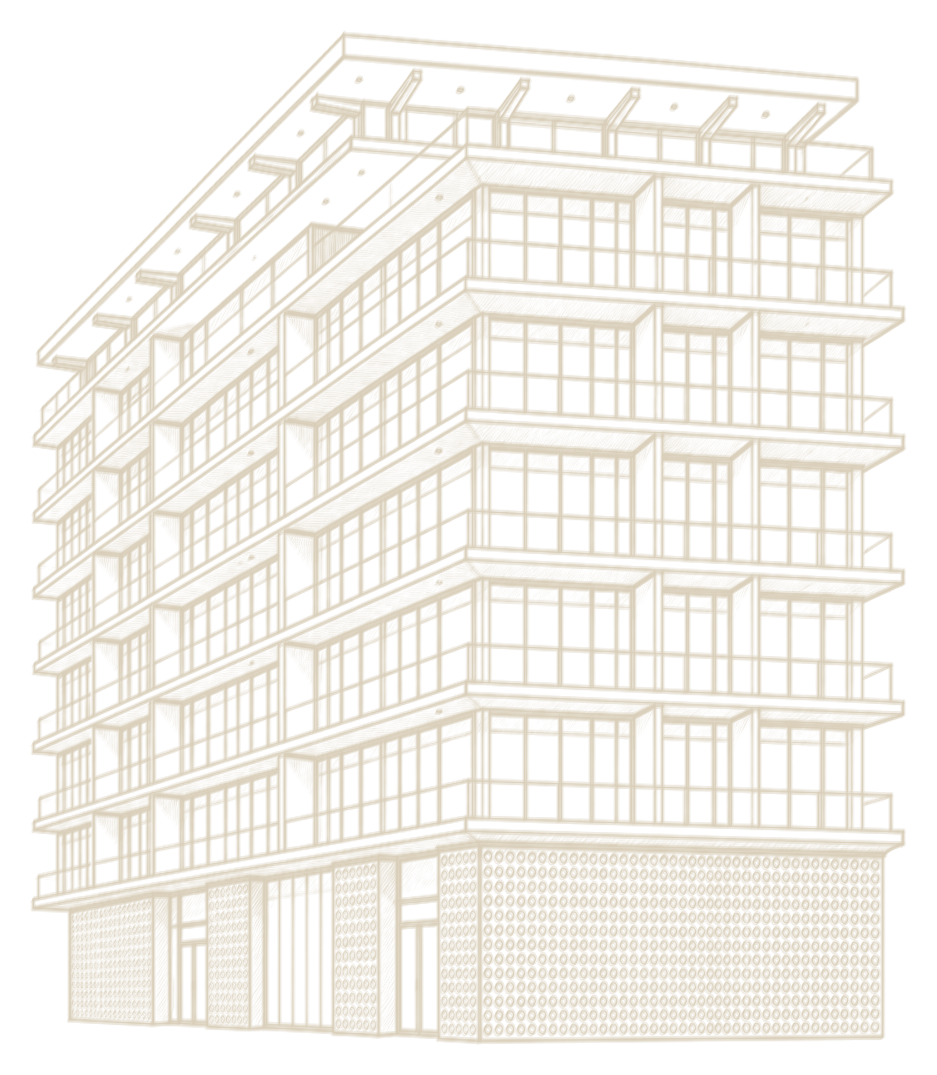
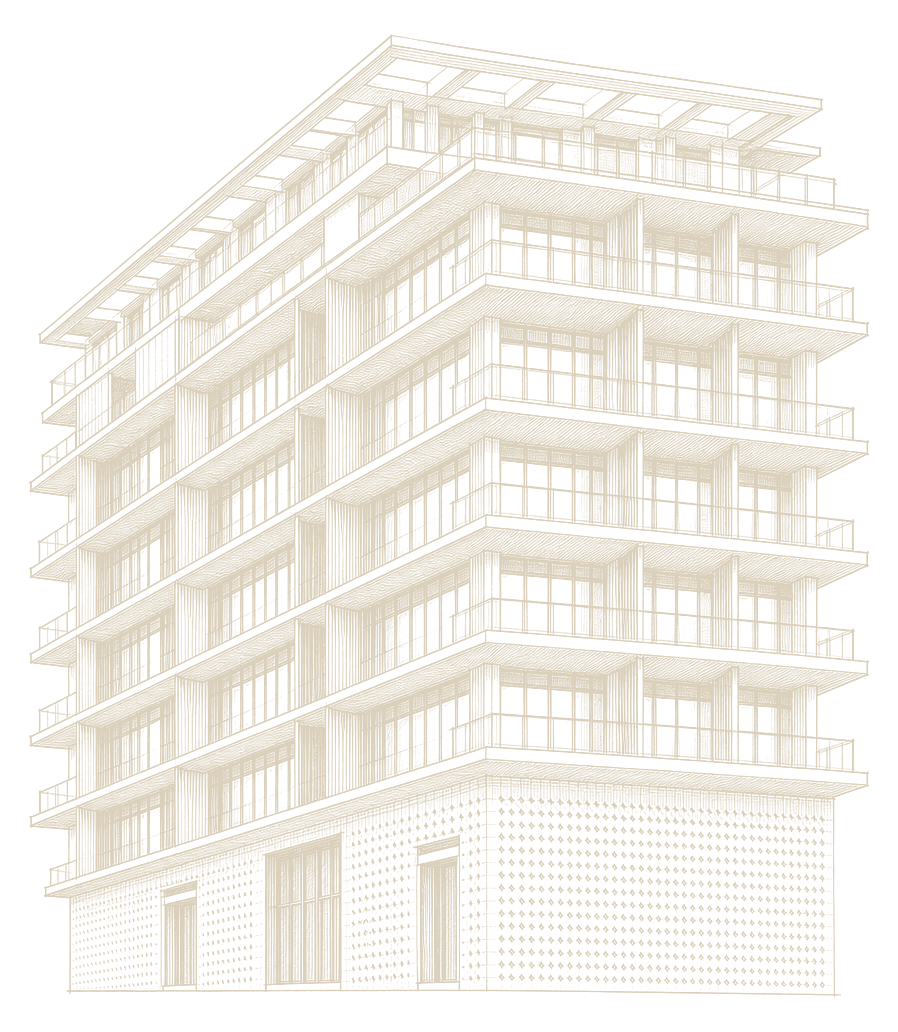
style(landing): match architectural sketch reference

diff --git a/public/cast-build.css b/public/cast-build.css
@@ -3,8 +3,8 @@
 *{box-sizing:border-box;margin:0;padding:0}html{-webkit-font-smoothing:antialiased;-moz-osx-font-smoothing:grayscale;text-rendering:optimizeLegibility;scroll-behavior:smooth}body{font-family:var(--font-body);background:var(--ivory);color:var(--graphite);line-height:1.6}a{color:inherit}img{max-width:100%;display:block}.shell{min-height:100vh}.topbar{position:fixed;top:0;left:0;right:0;z-index:100;display:grid;grid-template-columns:1fr auto 1fr;align-items:center;gap:28px;padding:22px 48px;background:rgba(245,243,239,.94);backdrop-filter:blur(14px);border-bottom:1px solid var(--hairline)}.brand-lockup{text-align:center;text-decoration:none;color:var(--graphite);display:flex;flex-direction:column;align-items:center;gap:7px}.brand-logo{height:44px;width:auto;object-fit:contain;mix-blend-mode:multiply}.brand{display:none}.subbrand{display:block;font-size:7px;letter-spacing:3px;text-transform:uppercase;color:var(--muted);margin-top:2px}.nav{display:flex;align-items:center;gap:28px}.nav-left{justify-content:flex-start}.nav-right{justify-content:flex-end}.nav a{font-family:var(--font-caption);font-size:10px;font-weight:600;letter-spacing:.18em;text-transform:uppercase;text-decoration:none;color:var(--graphite);transition:color .2s ease,opacity .2s ease}.nav a:hover{color:var(--bison)}.nav-action{border:1px solid var(--graphite);padding:10px 16px}.nav-action:hover{background:var(--dark);color:var(--ivory)!important}.button{display:inline-flex;align-items:center;justify-content:center;gap:10px;padding:15px 28px;border:1px solid rgba(255,255,255,.38);background:rgba(245,243,239,.04);color:var(--white);font-family:var(--font-caption);font-size:10px;font-weight:600;letter-spacing:.18em;text-transform:uppercase;text-decoration:none;transition:background .2s ease,border-color .2s ease,color .2s ease}.button:hover{background:rgba(255,255,255,.12);border-color:rgba(255,255,255,.7)}.button.secondary{background:transparent}.main .lead{color:var(--muted);max-width:760px}.main .button{color:var(--dark);border-color:var(--graphite);background:transparent}.main .button:hover{background:var(--dark);color:var(--ivory)}.main .button.secondary{border-color:var(--sand-light);color:var(--graphite)}.main .hero{min-height:auto;background:var(--white);color:var(--dark);overflow:visible;border:1px solid var(--sand-light)}.main .hero:before,.main .hero-mark{display:none}.main .hero .eyebrow{color:var(--bison)}.main .hero h1{color:var(--dark);font-size:clamp(2.8rem,5vw,5rem);line-height:.98}.main .hero .lead{color:var(--muted)}.main .hero .button{color:var(--dark);border-color:var(--graphite)}.main .hero .button:hover{color:var(--ivory);background:var(--dark)}.hero{min-height:100vh;display:grid;grid-template-columns:minmax(0,1fr) 360px;align-items:end;gap:46px;position:relative;overflow:hidden;background:var(--dark);padding:150px 56px 70px}.hero:before{content:"";position:absolute;inset:0;background:linear-gradient(180deg,rgba(20,20,20,.42),rgba(20,20,20,.18) 45%,rgba(20,20,20,.78)),radial-gradient(circle at 18% 24%,rgba(191,184,162,.2),transparent 32%);z-index:0}.hero-mark{position:absolute;inset:90px 0 auto 0;height:70vh;background:url('/assets/brand/cast-monogram-outline.jpg') center center/min(620px,68vw) auto no-repeat;opacity:.15;mix-blend-mode:screen;z-index:0}.hero-content{position:relative;z-index:1;color:var(--white);max-width:980px}.eyebrow,.section-kicker{font-family:var(--font-caption);font-size:10px;font-weight:600;letter-spacing:.22em;text-transform:uppercase;color:rgba(255,255,255,.66);margin-bottom:22px}.hero h1{font-family:var(--font-heading);font-size:clamp(4.4rem,9vw,9.4rem);font-weight:300;letter-spacing:.035em;line-height:.84;color:var(--white);max-width:1040px;margin:0 0 26px}.lead{font-size:1.05rem;line-height:1.75;color:rgba(255,255,255,.76);max-width:710px;margin:0 0 34px}.hero-actions{display:flex;gap:12px;flex-wrap:wrap}.sequence-card{position:relative;z-index:1;background:rgba(245,243,239,.94);border:1px solid rgba(212,201,178,.8);padding:28px;box-shadow:var(--shadow-soft);align-self:end}.sequence-card h2{font-family:var(--font-heading);font-size:2rem;font-weight:400;letter-spacing:.04em;color:var(--dark);margin:14px 0 18px}.sequence-card ol{list-style:none;display:grid;gap:14px}.sequence-card li{display:grid;grid-template-columns:36px 1fr;gap:12px;color:var(--graphite);font-size:.88rem}.sequence-card li span{font-family:var(--font-caption);font-size:.65rem;font-weight:700;letter-spacing:.16em;color:var(--bison)}.status{display:inline-block;padding:5px 11px;background:rgba(90,122,90,.15);color:var(--success);font-family:var(--font-caption);font-size:.6rem;font-weight:700;text-transform:uppercase;letter-spacing:.14em}.platform-section{padding:86px 56px 72px;max-width:1320px;margin:0 auto}.section-heading-row{display:grid;grid-template-columns:minmax(0,1.1fr) minmax(260px,.65fr);gap:42px;align-items:end;margin-bottom:28px}.section-kicker{color:var(--bison);margin-bottom:14px}.section-title{font-family:var(--font-heading);font-size:clamp(2.6rem,5vw,5.2rem);font-weight:300;letter-spacing:.03em;line-height:.95;color:var(--dark)}.section-heading-row p{color:var(--muted);font-size:.98rem;line-height:1.75}.pillar-grid{display:grid;grid-template-columns:repeat(4,1fr);gap:18px}.pillar-card{position:relative;background:var(--white);border:1px solid var(--sand-light);padding:30px 26px 28px;min-height:270px;transition:transform .2s ease,box-shadow .2s ease}.pillar-card:hover{transform:translateY(-2px);box-shadow:var(--shadow-soft)}.pillar-card:after{content:"";position:absolute;left:26px;right:26px;bottom:22px;height:1px;background:var(--hairline)}.pillar-card h3{font-family:var(--font-heading);font-size:1.85rem;font-weight:400;letter-spacing:.03em;color:var(--dark);margin:14px 0 12px}.pillar-card p{color:var(--muted);font-size:.9rem;line-height:1.65}.metric{font-family:var(--font-caption);font-size:.72rem;font-weight:700;letter-spacing:.18em;color:var(--bison);text-transform:uppercase}.workflow-band{margin:0 56px 70px;padding:30px 32px;display:grid;grid-template-columns:minmax(260px,.8fr) minmax(0,1.2fr);gap:34px;align-items:center;background:var(--linen);border:1px solid var(--sand-light)}.workflow-band h2{font-family:var(--font-heading);font-size:2.35rem;font-weight:300;line-height:1;color:var(--dark)}.workflow-strip{display:grid;grid-template-columns:repeat(4,1fr);gap:10px}.workflow-strip span{display:flex;align-items:center;justify-content:center;min-height:72px;background:var(--white);border:1px solid var(--sand-light);font-family:var(--font-caption);font-size:.68rem;font-weight:700;letter-spacing:.16em;text-transform:uppercase;color:var(--graphite);text-align:center}.brand-credit{display:flex;align-items:center;gap:10px;margin-top:22px;font-size:9px;letter-spacing:2px;text-transform:uppercase;color:var(--muted)}.brand-credit img{height:28px;mix-blend-mode:multiply}.grid{max-width:1180px;margin:0 auto;padding:78px 48px;display:grid;grid-template-columns:repeat(3,1fr);gap:16px}.card{background:var(--white);border:1px solid var(--sand-light);padding:28px;min-height:210px;transition:box-shadow .2s ease}.card:hover{box-shadow:var(--shadow-soft)}.card h3{font-family:var(--font-heading);font-size:1.7rem;font-weight:400;letter-spacing:.04em;color:var(--dark);margin-bottom:10px}.card p{color:var(--muted);font-size:.9rem}.layout{display:grid;grid-template-columns:286px minmax(0,1fr);min-height:100vh}.sidebar{background:var(--dark);color:var(--ivory);padding:30px 0;position:sticky;top:0;height:100vh;overflow:auto;border-right:1px solid rgba(207,199,177,.15)}.sidebar:before{content:"";display:block;height:240px;margin:0 26px 28px;background:url('/assets/brand/cast-build-logo-transparent.png') left center/contain no-repeat;opacity:.9}.sidebar a{display:flex;align-items:center;gap:12px;color:var(--sand-light);text-decoration:none;padding:12px 26px;border-left:2px solid transparent;font-family:var(--font-caption);font-size:.68rem;font-weight:600;text-transform:uppercase;letter-spacing:.15em;transition:background .2s ease,color .2s ease,border-color .2s ease}.sidebar a:hover{color:var(--ivory);background:rgba(245,243,239,.06);border-left-color:var(--sand-light)}.sidebar a:before{content:"";width:18px;height:18px;border:1px solid rgba(212,201,178,.48);background:rgba(245,243,239,.04)}.main{padding:120px 40px 56px;max-width:1280px;width:100%;margin:0 auto}.main>.section-title:first-child{font-size:clamp(3rem,6vw,6rem);margin-bottom:16px}.table{width:100%;border-collapse:collapse;background:var(--white);border:1px solid var(--sand-light)}.table th{background:var(--ivory-alt);padding:14px 16px;text-align:left;font-family:var(--font-caption);font-size:.65rem;font-weight:700;text-transform:uppercase;letter-spacing:.15em;color:var(--sand);border-bottom:1px solid var(--sand-light)}.table td{padding:14px 16px;border-bottom:1px solid rgba(212,201,178,.5);font-size:.85rem}.warning,.danger{border:1px solid var(--sand-light);border-left:4px solid var(--warning);background:rgba(212,201,178,.18);padding:16px;margin:18px 0}.danger{border-left-color:var(--danger)}code{background:var(--ivory-alt);padding:2px 5px}:focus-visible{outline:2px solid var(--bison);outline-offset:3px}@media(prefers-reduced-motion:reduce){*,*::before,*::after{transition:none!important;scroll-behavior:auto!important}}@media(max-width:1050px){.topbar{position:relative;grid-template-columns:1fr;padding:18px 22px}.brand-lockup{order:-1;align-items:flex-start;text-align:left}.nav,.nav-left,.nav-right{justify-content:flex-start;flex-wrap:wrap;gap:16px}.hero{min-height:auto;grid-template-columns:1fr;padding:70px 22px 36px}.hero h1{font-size:clamp(3.5rem,15vw,5.8rem)}.sequence-card{margin-top:24px}.platform-section{padding:54px 22px}.section-heading-row,.pillar-grid,.workflow-band,.workflow-strip,.grid,.layout{grid-template-columns:1fr}.workflow-band{margin:0 22px 48px}.sidebar{position:relative;height:auto}.main{padding:28px 22px}.grid{padding:42px 22px}}
 
 /* CAST Build access landing — matched to Broderick portal structure */
-.cast-access-section{position:relative;min-height:100vh;display:flex;align-items:center;justify-content:center;overflow:hidden;background:var(--dark);padding:100px 56px}.cast-access-bg{position:absolute;inset:0;background:linear-gradient(135deg,#050505 0%,#171414 34%,#24171b 58%,#0d0f14 78%,#050505 100%);z-index:0}.cast-access-overlay{position:absolute;inset:0;background:rgba(5,5,5,.68);z-index:0}.cast-access-section:before{content:"";position:absolute;inset:0;background:radial-gradient(circle at 18% 20%,rgba(191,184,162,.14),transparent 30%),linear-gradient(135deg,rgba(69,40,44,.18) 0%,transparent 62%);pointer-events:none;z-index:1}.cast-landing-building-sketch{position:absolute;z-index:1;top:50%;right:clamp(-420px,-25vw,-300px);width:min(720px,58vw);height:auto;max-width:none;transform:translateY(-50%);opacity:.46;pointer-events:none;user-select:none;filter:drop-shadow(0 26px 70px rgba(216,205,183,.08))}.cast-family-top{position:fixed;top:28px;left:42px;z-index:5;display:block;text-decoration:none}.cast-family-top img{width:95px;height:auto;object-fit:contain;opacity:.98;filter:drop-shadow(0 10px 24px rgba(0,0,0,.35))}.automation-top{position:fixed;top:28px;right:42px;z-index:5;display:block;text-decoration:none}.automation-top img{width:190px;height:auto;object-fit:contain;opacity:.9}.cast-access-content{position:relative;z-index:2;width:min(1180px,100%);display:grid;grid-template-columns:minmax(0,1fr) minmax(280px,380px);align-items:center;gap:clamp(42px,7vw,96px)}.cast-access-logo{margin:0;line-height:1;width:min(380px,100%);justify-self:start;transform:none}.cast-access-logo img{display:block;width:100%;height:auto;object-fit:contain;filter:drop-shadow(0 18px 44px rgba(0,0,0,.34));opacity:.98}.cast-access-grid{display:grid;grid-template-columns:1fr;gap:18px;width:100%;justify-self:end}.cast-access-card{min-height:156px;text-align:left;padding:32px 30px;background:rgba(255,255,255,.03);border:1px solid rgba(191,184,162,.16);transition:transform .35s cubic-bezier(.4,0,.2,1),background .35s cubic-bezier(.4,0,.2,1),border-color .35s cubic-bezier(.4,0,.2,1),box-shadow .35s cubic-bezier(.4,0,.2,1);cursor:pointer;text-decoration:none;display:flex;align-items:center;justify-content:space-between;gap:22px;color:inherit}.cast-access-card:hover{transform:translateX(-4px);background:rgba(255,255,255,.06);border-color:var(--sand);box-shadow:0 20px 60px rgba(0,0,0,.3)}.cast-access-card h2{font-family:var(--font-heading);font-size:clamp(1.15rem,1.55vw,1.55rem);font-weight:400;letter-spacing:.22em;text-transform:uppercase;color:var(--white);line-height:1.15}.cast-access-card .portal-arrow{width:20px;height:20px;stroke:var(--sand);stroke-width:1.5;opacity:.72;transform:translateX(-4px);transition:opacity .25s ease,transform .25s ease;flex:0 0 auto}.cast-access-card:hover .portal-arrow{opacity:1;transform:translateX(0)}.cast-access-card--project span{display:flex;align-items:center;align-self:stretch}.cast-access-card--project h2{margin:0}
-@media(max-width:900px){.cast-access-section{padding:92px 22px 72px;align-items:stretch}.cast-landing-building-sketch{right:-455px;width:520px;opacity:.14;transform:translateY(-50%)}.cast-family-top{position:absolute;top:22px;left:22px}.cast-family-top img{width:33px;height:auto}.automation-top{position:absolute;top:22px;right:22px}.automation-top img{width:66px;height:auto}.cast-access-content{grid-template-columns:1fr;gap:42px;width:100%;align-self:center}.cast-access-logo{margin:30px auto 0;width:min(320px,86vw);justify-self:center;transform:none}.cast-access-grid{max-width:520px;margin:0 auto;gap:16px}.cast-access-card{min-height:132px;padding:28px 24px;text-align:left}}
+.cast-access-section{position:relative;min-height:100vh;display:flex;align-items:center;justify-content:center;overflow:hidden;background:var(--dark);padding:100px 56px}.cast-access-bg{position:absolute;inset:0;background:linear-gradient(135deg,#050505 0%,#171414 34%,#24171b 58%,#0d0f14 78%,#050505 100%);z-index:0}.cast-access-overlay{position:absolute;inset:0;background:rgba(5,5,5,.68);z-index:0}.cast-access-section:before{content:"";position:absolute;inset:0;background:radial-gradient(circle at 18% 20%,rgba(191,184,162,.14),transparent 30%),linear-gradient(135deg,rgba(69,40,44,.18) 0%,transparent 62%);pointer-events:none;z-index:1}.cast-landing-building-sketch{position:absolute;z-index:1;top:50%;right:clamp(-580px,-36vw,-470px);width:min(620px,49vw);height:auto;max-width:none;transform:translateY(-50%);opacity:.34;pointer-events:none;user-select:none;filter:drop-shadow(0 26px 70px rgba(216,205,183,.08))}.cast-family-top{position:fixed;top:28px;left:42px;z-index:5;display:block;text-decoration:none}.cast-family-top img{width:95px;height:auto;object-fit:contain;opacity:.98;filter:drop-shadow(0 10px 24px rgba(0,0,0,.35))}.automation-top{position:fixed;top:28px;right:42px;z-index:5;display:block;text-decoration:none}.automation-top img{width:190px;height:auto;object-fit:contain;opacity:.9}.cast-access-content{position:relative;z-index:2;width:min(1180px,100%);display:grid;grid-template-columns:minmax(0,1fr) minmax(280px,380px);align-items:center;gap:clamp(42px,7vw,96px)}.cast-access-logo{margin:0;line-height:1;width:min(380px,100%);justify-self:start;transform:none}.cast-access-logo img{display:block;width:100%;height:auto;object-fit:contain;filter:drop-shadow(0 18px 44px rgba(0,0,0,.34));opacity:.98}.cast-access-grid{display:grid;grid-template-columns:1fr;gap:18px;width:100%;justify-self:end}.cast-access-card{min-height:156px;text-align:left;padding:32px 30px;background:rgba(255,255,255,.03);border:1px solid rgba(191,184,162,.16);transition:transform .35s cubic-bezier(.4,0,.2,1),background .35s cubic-bezier(.4,0,.2,1),border-color .35s cubic-bezier(.4,0,.2,1),box-shadow .35s cubic-bezier(.4,0,.2,1);cursor:pointer;text-decoration:none;display:flex;align-items:center;justify-content:space-between;gap:22px;color:inherit}.cast-access-card:hover{transform:translateX(-4px);background:rgba(255,255,255,.06);border-color:var(--sand);box-shadow:0 20px 60px rgba(0,0,0,.3)}.cast-access-card h2{font-family:var(--font-heading);font-size:clamp(1.15rem,1.55vw,1.55rem);font-weight:400;letter-spacing:.22em;text-transform:uppercase;color:var(--white);line-height:1.15}.cast-access-card .portal-arrow{width:20px;height:20px;stroke:var(--sand);stroke-width:1.5;opacity:.72;transform:translateX(-4px);transition:opacity .25s ease,transform .25s ease;flex:0 0 auto}.cast-access-card:hover .portal-arrow{opacity:1;transform:translateX(0)}.cast-access-card--project span{display:flex;align-items:center;align-self:stretch}.cast-access-card--project h2{margin:0}
+@media(max-width:900px){.cast-access-section{padding:92px 22px 72px;align-items:stretch}.cast-landing-building-sketch{right:-500px;width:520px;opacity:.10;transform:translateY(-50%)}.cast-family-top{position:absolute;top:22px;left:22px}.cast-family-top img{width:33px;height:auto}.automation-top{position:absolute;top:22px;right:22px}.automation-top img{width:66px;height:auto}.cast-access-content{grid-template-columns:1fr;gap:42px;width:100%;align-self:center}.cast-access-logo{margin:30px auto 0;width:min(320px,86vw);justify-self:center;transform:none}.cast-access-grid{max-width:520px;margin:0 auto;gap:16px}.cast-access-card{min-height:132px;padding:28px 24px;text-align:left}}
 
 /* Project portals — Broderick admin dashboard structure with CAST Build modules */
 .project-admin-body{background:var(--ivory);color:var(--graphite)}.project-dashboard-wrapper{display:flex;min-height:100vh}.project-sidebar{width:260px;background:var(--dark);color:var(--ivory);padding:32px 0;position:fixed;height:100vh;overflow-y:auto;border-right:1px solid rgba(207,199,177,.15);z-index:1000;scrollbar-width:thin;scrollbar-color:rgba(191,184,162,.3) transparent}.project-sidebar::-webkit-scrollbar{width:4px}.project-sidebar::-webkit-scrollbar-thumb{background:rgba(191,184,162,.3)}.project-sidebar-logo{padding:0 24px 22px;border-bottom:1px solid rgba(207,199,177,.15);margin-bottom:18px;display:flex;flex-direction:column;align-items:flex-start;gap:10px;text-decoration:none;color:var(--ivory)}.project-sidebar-logo img{height:86px;width:184px;max-width:100%;object-fit:contain}.project-sidebar-logo span{display:none}.project-sidebar-nav{display:flex;flex-direction:column}.project-sidebar-nav a{display:flex;align-items:center;color:var(--sand-light);text-decoration:none;padding:10px 24px;border-left:2px solid transparent;font-family:var(--font-caption);font-size:.7rem;text-transform:uppercase;letter-spacing:.15em;transition:color .2s ease,background .2s ease,border-color .2s ease}.project-sidebar-nav a.active{border-left-color:var(--sand-light);background:rgba(245,243,239,.08);color:var(--ivory);font-weight:700}.project-sidebar-nav a:hover{color:var(--ivory);background:rgba(245,243,239,.05)}.project-sidebar-nav .nav-icon{width:20px;height:20px;margin-right:12px;display:inline-flex;align-items:center;justify-content:center;flex-shrink:0;color:var(--sand-light);font-family:var(--font-heading);font-size:.92rem}.sidebar-automation{margin:28px 24px 0;padding-top:24px;border-top:1px solid rgba(207,199,177,.15)}.sidebar-automation img{max-height:76px;width:auto;opacity:.78}.project-main-content{margin-left:260px;flex:1;padding:32px 40px;background:var(--ivory);min-width:0}.project-page-header{margin-bottom:32px;padding-bottom:24px;border-bottom:1px solid var(--sand-light);display:flex;align-items:flex-start;justify-content:space-between;gap:24px}.project-page-title{font-family:var(--font-heading);font-size:2.4rem;color:var(--dark);font-weight:400;letter-spacing:.04em;margin-bottom:6px}.project-page-subtitle{font-family:var(--font-caption);font-size:.7rem;color:var(--bison);text-transform:uppercase;letter-spacing:.15em}.project-monogram{width:52px;height:52px;object-fit:contain;opacity:.72}.project-kpi-grid{display:grid;grid-template-columns:repeat(auto-fit,minmax(220px,1fr));gap:16px;margin-bottom:32px}.project-kpi-card{background:var(--white);border:1px solid var(--sand-light);padding:24px;transition:box-shadow .2s ease}.project-kpi-card:hover{box-shadow:0 2px 12px rgba(61,61,61,.06)}.kpi-label{font-family:var(--font-caption);font-size:.65rem;text-transform:uppercase;letter-spacing:.15em;color:var(--sand);margin-bottom:10px}.kpi-value{font-family:var(--font-heading);font-size:2.35rem;font-weight:400;color:var(--dark);line-height:1}.kpi-change{font-size:.78rem;color:var(--muted);margin-top:10px}.project-dashboard-grid{display:grid;grid-template-columns:repeat(12,1fr);gap:16px}.project-panel{background:var(--white);border:1px solid var(--sand-light);min-height:180px}.project-panel.span-4{grid-column:span 4}.project-panel.span-8{grid-column:span 8}.project-panel.span-12{grid-column:span 12}.panel-header{padding:18px 22px;border-bottom:1px solid rgba(212,201,178,.75);display:flex;align-items:center;justify-content:space-between;gap:16px}.panel-header h2{font-family:var(--font-heading);font-size:1.28rem;font-weight:400;letter-spacing:.16em;text-transform:uppercase;color:var(--dark)}.panel-header span{font-family:var(--font-caption);font-size:.65rem;font-weight:700;letter-spacing:.14em;text-transform:uppercase;color:var(--sand)}.project-module-grid{display:grid;grid-template-columns:repeat(2,1fr);gap:12px;padding:18px}.project-module-grid.wide{grid-template-columns:repeat(4,1fr)}.project-module-grid a{display:block;min-height:118px;padding:18px;border:1px solid rgba(212,201,178,.8);border-left:3px solid var(--bison);background:var(--ivory-alt);text-decoration:none;color:var(--graphite);transition:background .2s ease,box-shadow .2s ease}.project-module-grid a:hover{background:var(--white);box-shadow:0 2px 12px rgba(61,61,61,.06)}.project-module-grid strong{display:block;font-family:var(--font-heading);font-size:1.35rem;font-weight:400;color:var(--dark);margin-bottom:7px}.project-module-grid span{font-size:.82rem;color:var(--muted);line-height:1.45}.fast-link-list{display:grid;padding:18px;gap:10px}.fast-link-list a{display:flex;justify-content:space-between;align-items:center;min-height:44px;padding:10px 12px;border:1px solid rgba(212,201,178,.8);background:var(--ivory-alt);font-family:var(--font-caption);font-size:.7rem;font-weight:700;letter-spacing:.13em;text-transform:uppercase;text-decoration:none;color:var(--graphite)}.fast-link-list a:after{content:'→';color:var(--bison)}.project-table{width:100%;border-collapse:collapse}.project-table th{background:var(--ivory-alt);padding:14px 16px;text-align:left;font-family:var(--font-caption);font-weight:700;font-size:.65rem;text-transform:uppercase;letter-spacing:.15em;color:var(--sand);border-bottom:1px solid var(--sand-light)}.project-table td{padding:14px 16px;border-bottom:1px solid rgba(212,201,178,.5);font-size:.85rem}.project-table a{font-weight:700;color:var(--bison);text-decoration:none}.empty-state{padding:28px;text-align:center;color:var(--muted)}.empty-state img{width:46px;height:46px;margin:0 auto 16px;opacity:.6}.empty-state h3{font-family:var(--font-heading);font-size:1.45rem;font-weight:400;color:var(--dark);letter-spacing:.05em;margin-bottom:8px}.small-action{display:inline-flex;margin-top:18px;padding:10px 14px;border:1px solid var(--sand-light);font-family:var(--font-caption);font-size:.65rem;font-weight:700;letter-spacing:.14em;text-transform:uppercase;text-decoration:none;color:var(--graphite)}

diff --git a/tests/static-platform-audit.js b/tests/static-platform-audit.js
@@ -447,7 +447,7 @@ if (!publicIndex.includes('cast-landing-building-sketch') || !publicIndex.includ
   console.error('CAST Build landing must include the Alüm linen building sketch asset.');
   failed = true;
 }
-if (!/class="cast-landing-building-sketch"[^>]*alt=""[^>]*width="937"[^>]*height="1075"[^>]*aria-hidden="true"/.test(publicIndex)) {
+if (!/class="cast-landing-building-sketch"[^>]*alt=""[^>]*width="898"[^>]*height="1032"[^>]*aria-hidden="true"/.test(publicIndex)) {
   console.error('CAST Build landing sketch must remain decorative with explicit dimensions for CLS safety.');
   failed = true;
 }
@@ -463,7 +463,7 @@ if (!/\.automation-top img\{width:190px;height:auto/.test(castBuildCss)) {
   console.error('CAST Build landing must use reduced CAST Automation desktop sizing.');
   failed = true;
 }
-if (!/\.cast-landing-building-sketch\{[^}]*right:clamp\(-420px,-25vw,-300px\);[^}]*width:min\(720px,58vw\)/.test(castBuildCss)) {
+if (!/\.cast-landing-building-sketch\{[^}]*right:clamp\(-580px,-36vw,-470px\);[^}]*width:min\(620px,49vw\)/.test(castBuildCss)) {
   console.error('CAST Build landing building sketch must sit cropped on the far right.');
   failed = true;
 }

diff --git a/public/index.html b/public/index.html
@@ -14,7 +14,7 @@
   <main class="cast-access-section cast-access-section--platform" aria-label="CAST Build project access">
     <div class="cast-access-bg"></div>
     <div class="cast-access-overlay"></div>
-    <img class="cast-landing-building-sketch" src="/assets/brand/alum-building-linen-sketch.png" alt="" width="937" height="1075" aria-hidden="true" decoding="async">
+    <img class="cast-landing-building-sketch" src="/assets/brand/alum-building-linen-sketch.png" alt="" width="898" height="1032" aria-hidden="true" decoding="async">
 
     <a class="cast-family-top" href="/" aria-label="CAST Community">
       <img src="/assets/brand/cast-community-logo-transparent.png" alt="CAST COMMUNITY">

diff --git a/IMPLEMENTATION_LOG.md b/IMPLEMENTATION_LOG.md
@@ -291,3 +291,16 @@ Validation:
 - `npm run build`
 - `git diff --check`
 - Local desktop and mobile browser screenshot QA confirmed no content/CTA conflicts.
+
+## 2026-05-09 — Landing sketch style-reference refinement
+
+- Reworked the Alüm landing building sketch to better match Lawrence's architectural hand-rendering reference: denser ink facade hatching, more expressive linework, stronger overhang/balcony shadow texture, and a taller centered building-only composition.
+- Preserved the transparent linen-line treatment and removed street/sidewalk/landscape context.
+- Updated image dimensions to `898×1032`, kept the asset decorative (`alt=""`, `aria-hidden="true"`, async decoding), and repositioned the sketch farther right/smaller so it no longer conflicts with the landing CTA.
+- Updated static audit coverage for the new crop and dimensions.
+
+Validation:
+- `npm test`
+- `npm run build`
+- `git diff --check`
+- Desktop and mobile browser screenshot QA; final pass had no CTA/content blockers.